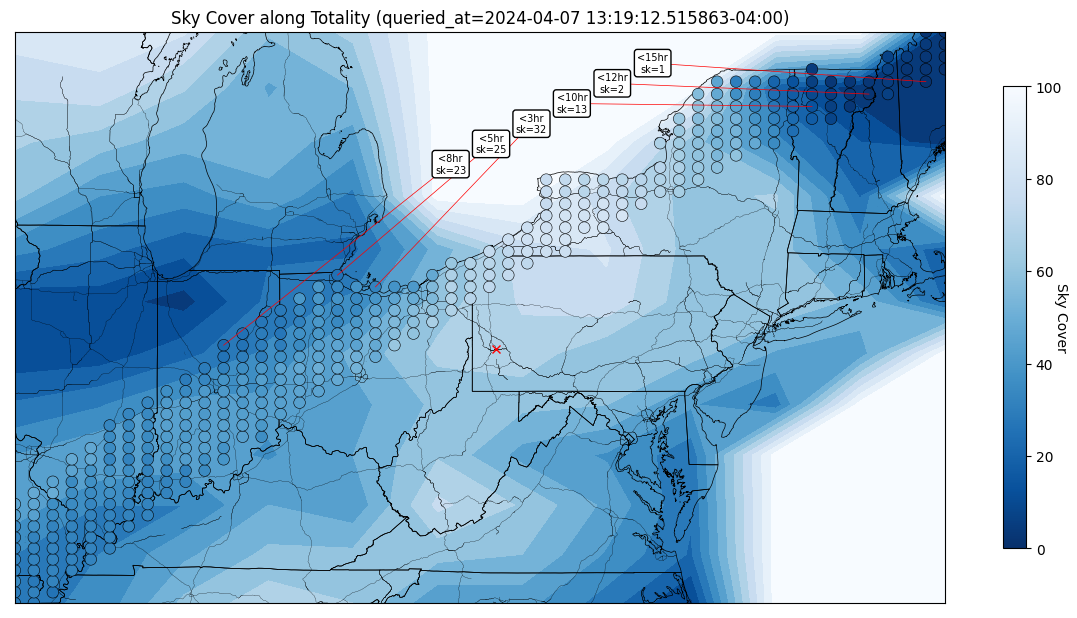
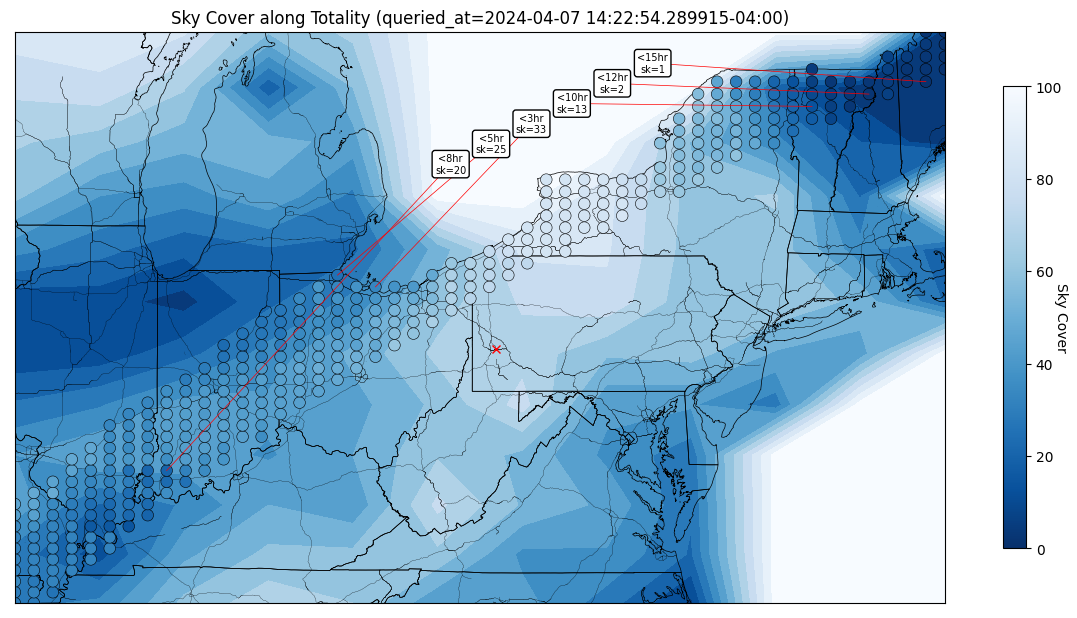
Automated map update

diff --git a/README.md b/README.md
@@ -2,9 +2,9 @@ The last sky cover plot generated:
 ![cover](cover.png)
 
 The best targets by hour:
- - Less than 3 hours: (41.48571, -82.67347) cover: 32
+ - Less than 3 hours: (41.48571, -82.67347) cover: 33
  - Less than 5 hours: (41.68163, -83.51837) cover: 25
- - Less than 8 hours: (40.50612, -86.05306) cover: 23
+ - Less than 8 hours: (38.35102, -87.32041) cover: 20
  - Less than 10 hours: (44.42449, -72.95714) cover: 13
  - Less than 12 hours: (44.62041, -71.68980) cover: 2
  - Less than 15 hours: (44.81633, -70.42245) cover: 1
